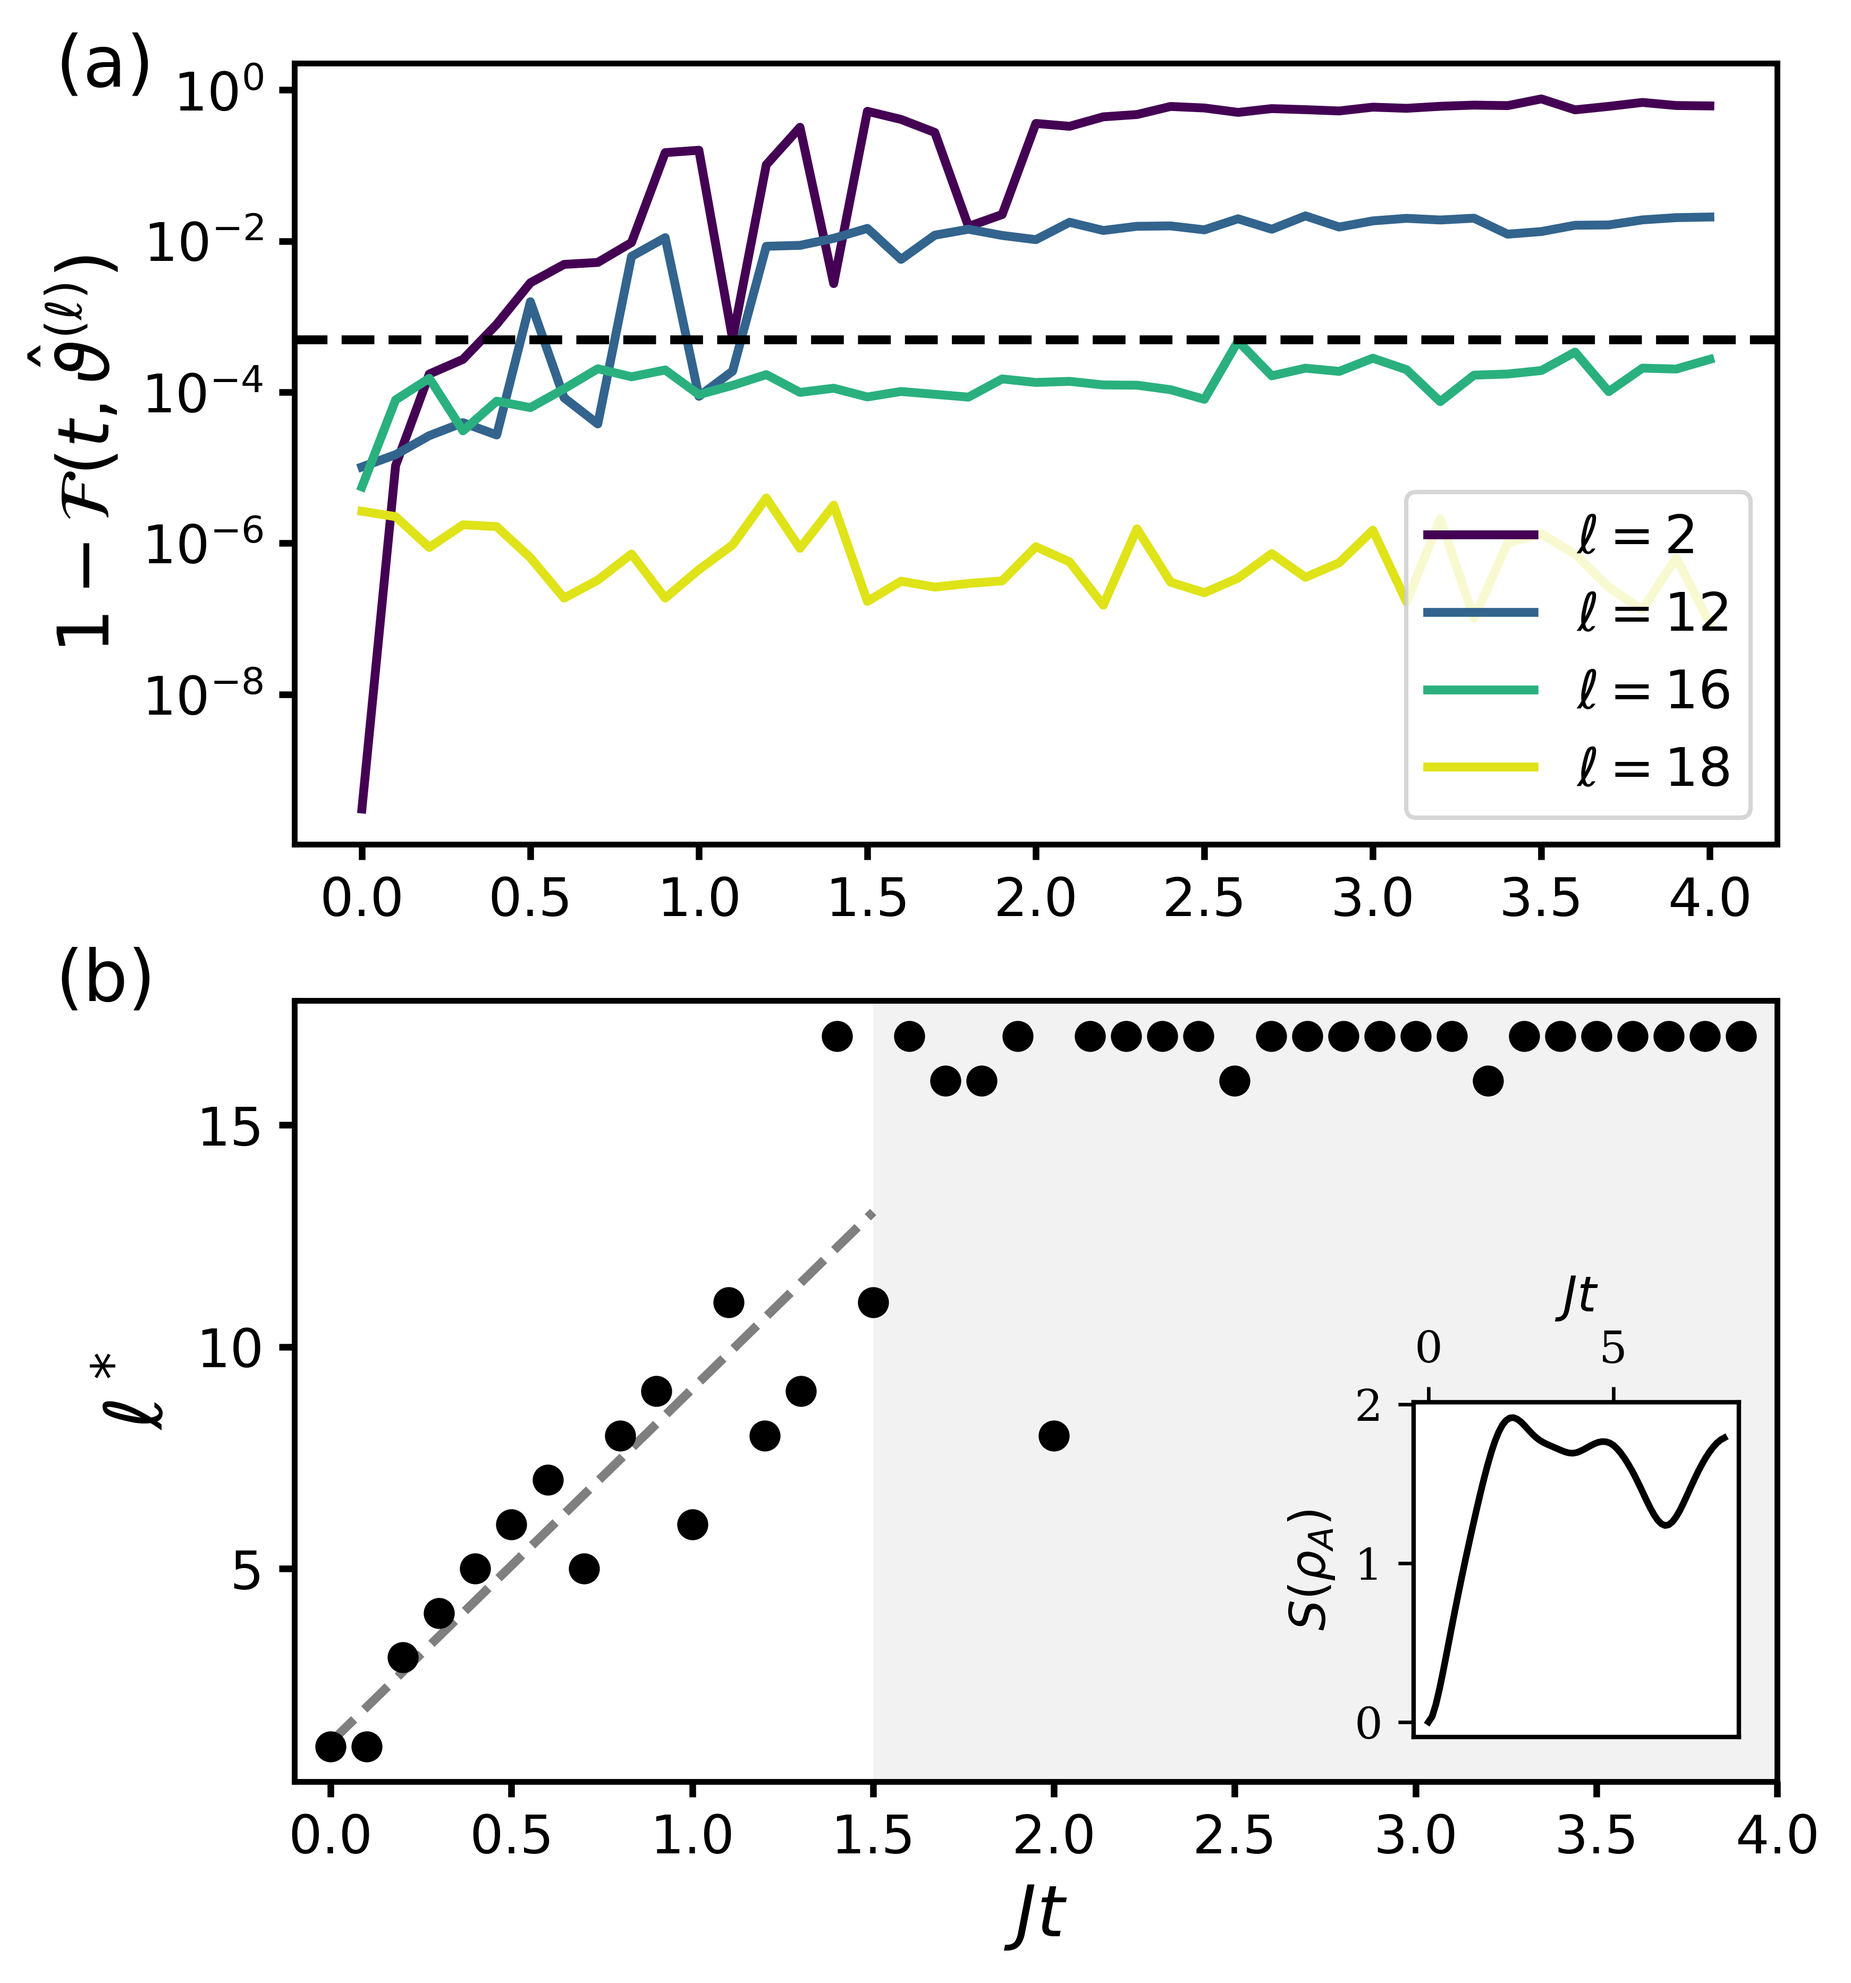
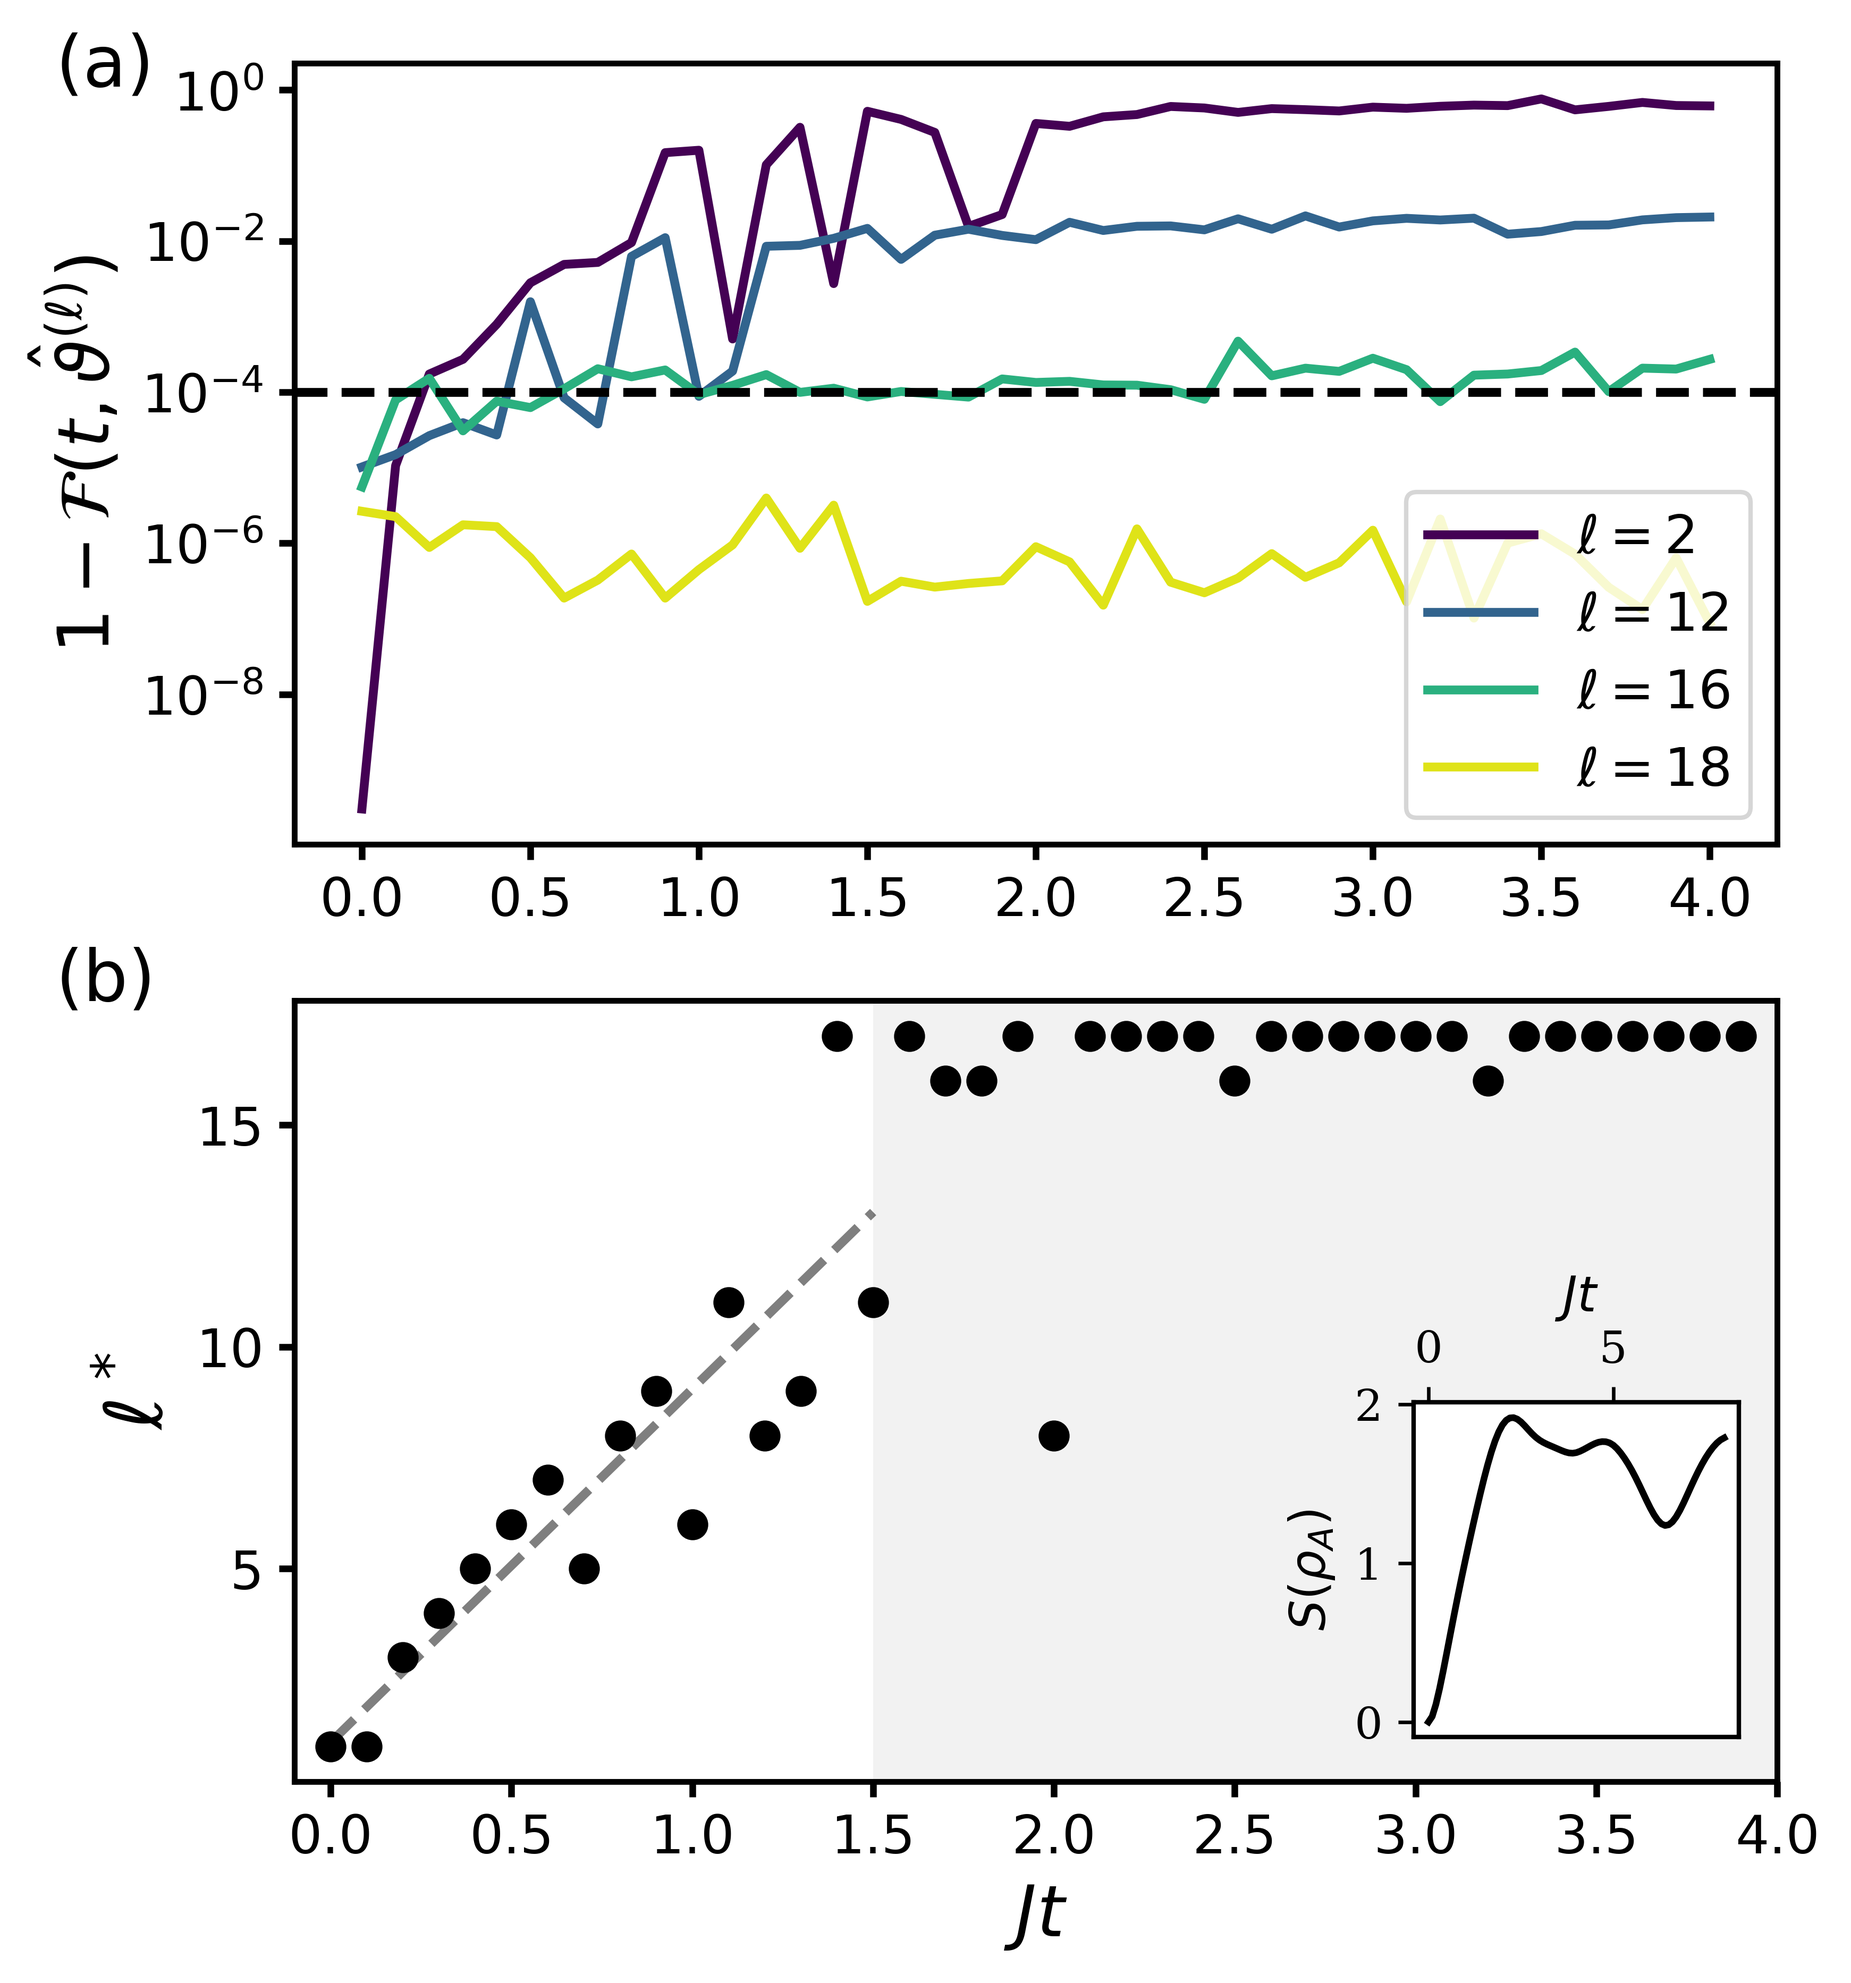
In 'infidelity_vs_early_time.py' moved black dashed line to epsilon=1e-4

diff --git a/figure_scripts/infidelity_vs_early_time.py b/figure_scripts/infidelity_vs_early_time.py
@@ -70,7 +70,7 @@ ells = [2,12,16,18] # <--- choose \ell's to show here
 
 for d in [ii.index(l) for l in ells]: 
     ax[0].plot(data[d][:,1], data[d][:,0], '-', label=f'$\ell={ii[d]}$', markersize=3, linewidth=2)
-ax[0].axhline(5e-4, color='k', linestyle='--', linewidth=2)
+ax[0].axhline(epsilon, color='k', linestyle='--', linewidth=2)
 ax[0].legend(fontsize=12)
 
 def line(x, a, b):
